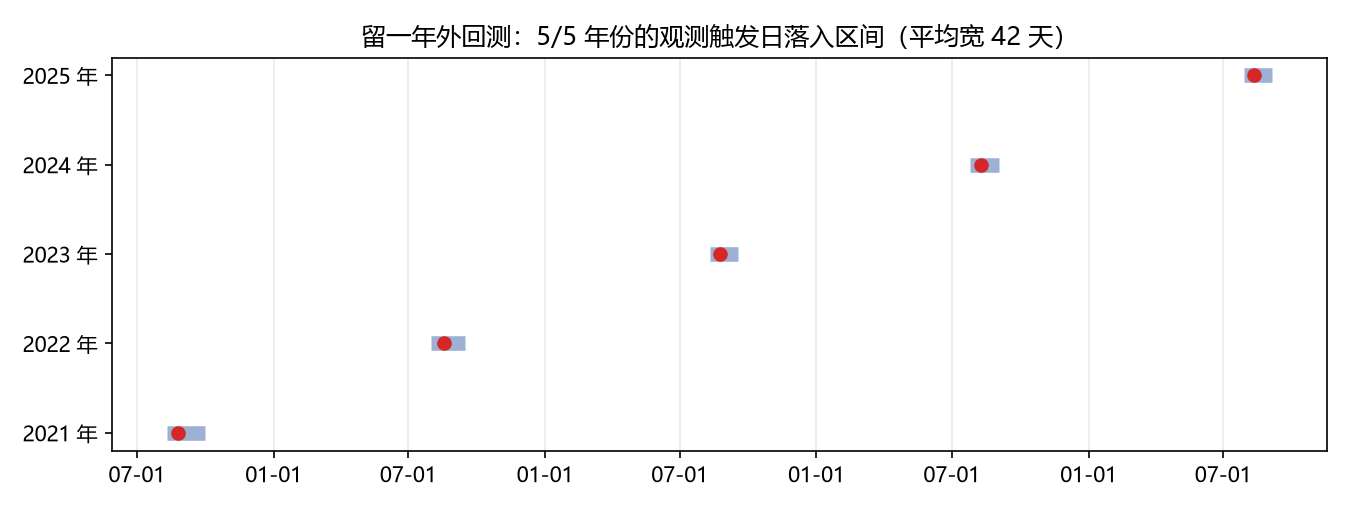
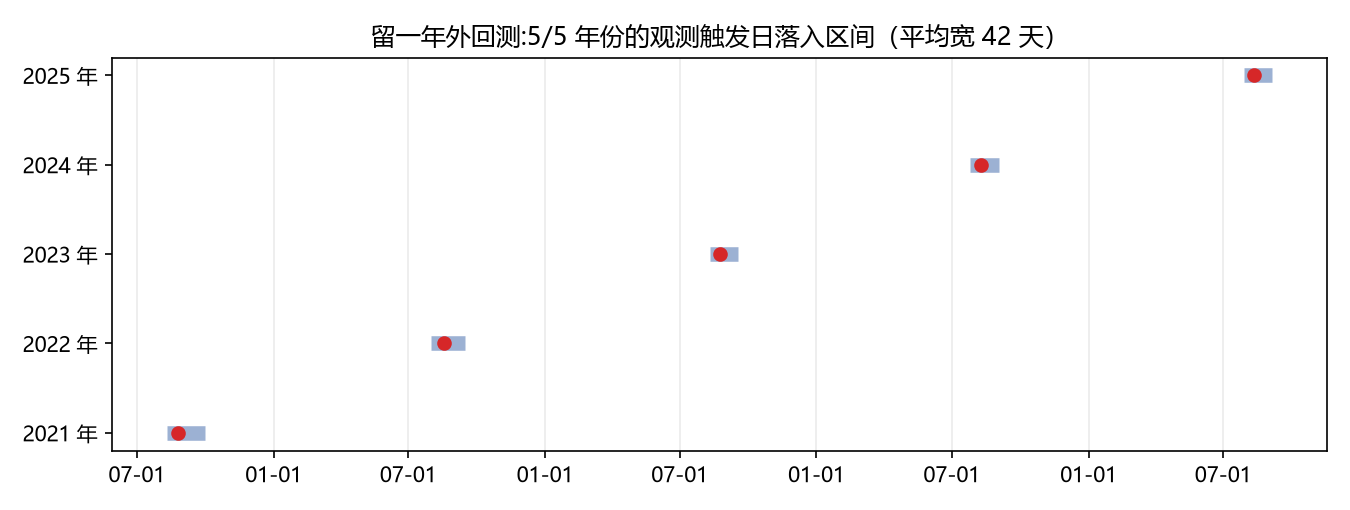
Q3、Q4的show show way
仙人指路

Changed region(s): [[0.2489, 0.0294, 0.8089, 0.1176]]

diff --git a/work/Q3/code/p3_source.py b/work/Q3/code/p3_source.py
@@ -1,12 +1,12 @@
 # -*- coding: utf-8 -*-
-"""问题3 三条件判别：地形（T）— 物源（M）— 水源（W）
+"""问题3 三条件判别:地形(T)— 物源(M)— 水源(W)
 
 题面注释把"泥石流形成的基本条件"归为地形、物源、水源三条。本脚本用现有数据把前两条量化，
 水源条件取自 p3_forecast 的融水结果，三者共同构成触发判别的门槛：
 
     触发时刻 t* = min{ t : H(t) ≥ H_c }，前提是 T、M 条件成立
 
-物源估算：沟道两侧 500 m 缓冲内坡度 > 30° 的坡面面积 × 可动层厚（1–3 m）× 启动比例（10–30%）。
+物源估算：沟道两侧 500 m 缓冲内坡度 > 30° 的坡面面积 x 可动层厚(1-3 m)x 启动比例(10-30%)。
 这是"潜在可动储量"的上限估计，不是本次事件的实测体积。
 """
 import os
@@ -20,7 +20,7 @@ from config import RESOURCES, RESULT
 OUT = RESULT
 os.makedirs(OUT, exist_ok=True)
 
-# ---------- 地形 ----------
+#地形
 demf = os.path.join(RESOURCES, 'DataSet_7', 'DEM.tif')
 with rasterio.open(demf) as s:
     dem = s.read(1).astype('float32')
@@ -49,7 +49,7 @@ for a, b in [(0, 2), (2, 5), (5, 10), (10, 15), (15, skm[-1])]:
                 '坡度_deg': round(float(np.degrees(np.arctan(drop / length))), 1)})
 seg_df = pd.DataFrame(seg)
 
-# ---------- 物源 ----------
+# 物源 
 mask = np.ones(dem.shape, bool)
 mask[path[:, 0], path[:, 1]] = False
 dist = distance_transform_edt(mask) * dx
@@ -69,7 +69,7 @@ src_df = pd.DataFrame(rows)
 m500 = dist <= 500
 A30 = ((slope > 30) & m500).sum() * cell
 A35 = ((slope > 35) & m500).sum() * cell
-print('=== 地形条件 ===')
+print('地形条件')
 print(seg_df.to_string(index=False))
 print('全沟落差 %.0f m，源区 2 km 平均坡度 %.1f°' % (zz[0] - zz[-1], np.nanmean(slope[dist <= 2000])))
 print('500 m 缓冲内坡度>30° 面积 %.2f km²（占该带 %.0f%%）'
@@ -83,7 +83,7 @@ print('  可动层 3 m、启动 30%% -> %.2e m³' % (A30 * 3.0 * 0.30))
 print('坡度>35° 同法：%.2e ~ %.2e m³'
       % (A35 * 1.0 * 0.10, A35 * 3.0 * 0.30))
 
-# ---------- 水源（由 p3_forecast 给出，此处只读结论） ----------
+#水源（由 p3_forecast 给出，此处只读结论）
 water = pd.DataFrame([{'条件': '水源', '指标': '事件日累积融水占年均', '值': '74.0%'},
                       {'条件': '水源', '指标': '年正积温', '值': '581 ℃·d'},
                       {'条件': '水源', '指标': '事件前 72 h 降水', '值': '0.0 mm'}])

diff --git a/work/Q3/code/p3_forecast.py b/work/Q3/code/p3_forecast.py
@@ -74,7 +74,8 @@ def d8_path(z, start, goal, stop_r=3, max_steps=40000):
 
 
 def nearest_on_path(path, point, cell=(1.0, 1.0)):
-    """路径上离 point 最近的像元：返回 (索引, 米制距离)
+    """
+    路径上离 point 最近的像元：返回 (索引, 米制距离)
 
     cell = (行方向像元边长, 列方向像元边长)，单位米，用于把行列号换算成米。
     """
@@ -119,7 +120,7 @@ from voellmy import run_voellmy, calibrate_mu
 mu_cal = calibrate_mu(zz, dd)
 t_cal, v_cal, ok_cal = run_voellmy(zz, dd, mu=mu_cal)
 print('\nVoellmy 标定：μ = %.4f(H/L = %.4f)，ξ=1000、h=8 m、入口速度 15 m/s' % (mu_cal, HL))
-print('  到达口岸 %s，耗时 %.1f 分钟，峰值速度 %.1f m/s，抵达速度 %.1f m/s'
+print('  到达口岸 %s,耗时 %.1f 分钟，峰值速度 %.1f m/s，抵达速度 %.1f m/s'
       % (ok_cal, t_cal[-1] / 60, v_cal.max(), v_cal[-1]))
 
 N = 2000
@@ -149,7 +150,7 @@ print('\nDDF = %.2f mm/(℃·d)，年均融水 %.0f mm' % (DDF0, annual_melt))
 
 obs = {y: trigger_date(pdd_by_year[y], DDF0, annual_melt, 0.70) for y in range(2021, 2026)}
 
-print('\n=== 覆盖率回测(留一年外,400 次集合)===')
+print('\n覆盖率回测(留一年外,400 次集合)')
 rows, hit = [], 0
 for y in range(2021, 2026):
     others = [z for z in range(2021, 2026) if z != y]

diff --git a/work/Q4/code/p4_sim.py b/work/Q4/code/p4_sim.py
@@ -1,7 +1,7 @@
 # -*- coding: utf-8 -*-
 """问题4:能量线—侧向扩散仿真(沿沟道能量线 + 侧向影响宽度)，输出水深/到达时间/范围
 
-质量守恒按"逐断面实际湿宽"分配（方案 B）：
+质量守恒按"逐断面实际湿宽"分配:
 - 湿边界随水深自适应：高出沟底不超过 max(2h, 5 m)，迭代至自洽；
 - 每个断面按 q(s)·Δs 分配体积，抛物线横向归一，保证段内严格守恒；
 - 计算域外的 18% 视为从下游出口流出。
@@ -162,7 +162,7 @@ for q in np.linspace(0, skm[-1], 12):
                  'depth_max_m': round(float(depth[m].max()), 2) if m.any() else 0.0,
                  'width_m': round(float(wq), 1) if np.isfinite(wq) else 0.0})
 sw = pd.DataFrame(rows)
-print('\n沿程统计：')
+print('\n沿程统计:')
 print(sw.to_string(index=False))
 sw.to_csv(os.path.join(OUT, 'p4_along_path.csv'), index=False, encoding='utf-8-sig')
 

diff --git a/work/Q4/code/p4_figs.py b/work/Q4/code/p4_figs.py
@@ -57,7 +57,7 @@ fig.tight_layout()
 fig.savefig(os.path.join(FIG, 'p4_fig1_inundation.png'), dpi=160)
 plt.close(fig)
 
-# ---- 图 2：到达时间场（中心线加粗，避免在 35 km 幅面上"看不见"）----
+# 图 2：到达时间场（中心线加粗，避免在 35 km 幅面上神秘失踪）
 fig, ax = plt.subplots(figsize=(8.2, 7.4))
 ax.imshow(hs, cmap='gray', extent=ext, origin='upper')
 

diff --git a/work/Q3/code/voellmy.py b/work/Q3/code/voellmy.py
@@ -1,5 +1,5 @@
 # -*- coding: utf-8 -*-
-"""运移模型工具：Voellmy 一维（正确的阻力项 a = g sinθ - μg cosθ - g v²/(ξh)）"""
+"""运移模型工具:Voellmy 一维(正确的阻力项 a = g sinθ - μg cosθ - g v²/(ξh))"""
 import numpy as np
 
 G = 9.81
